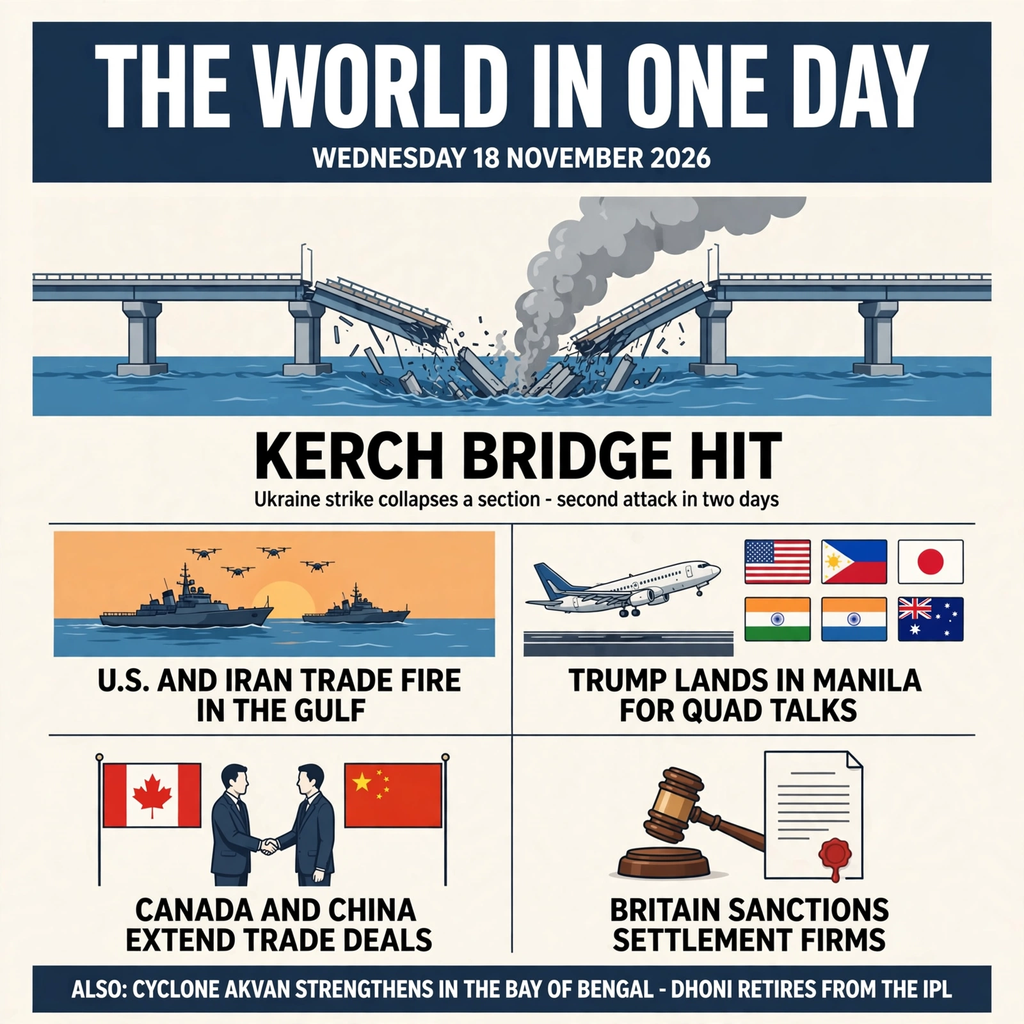
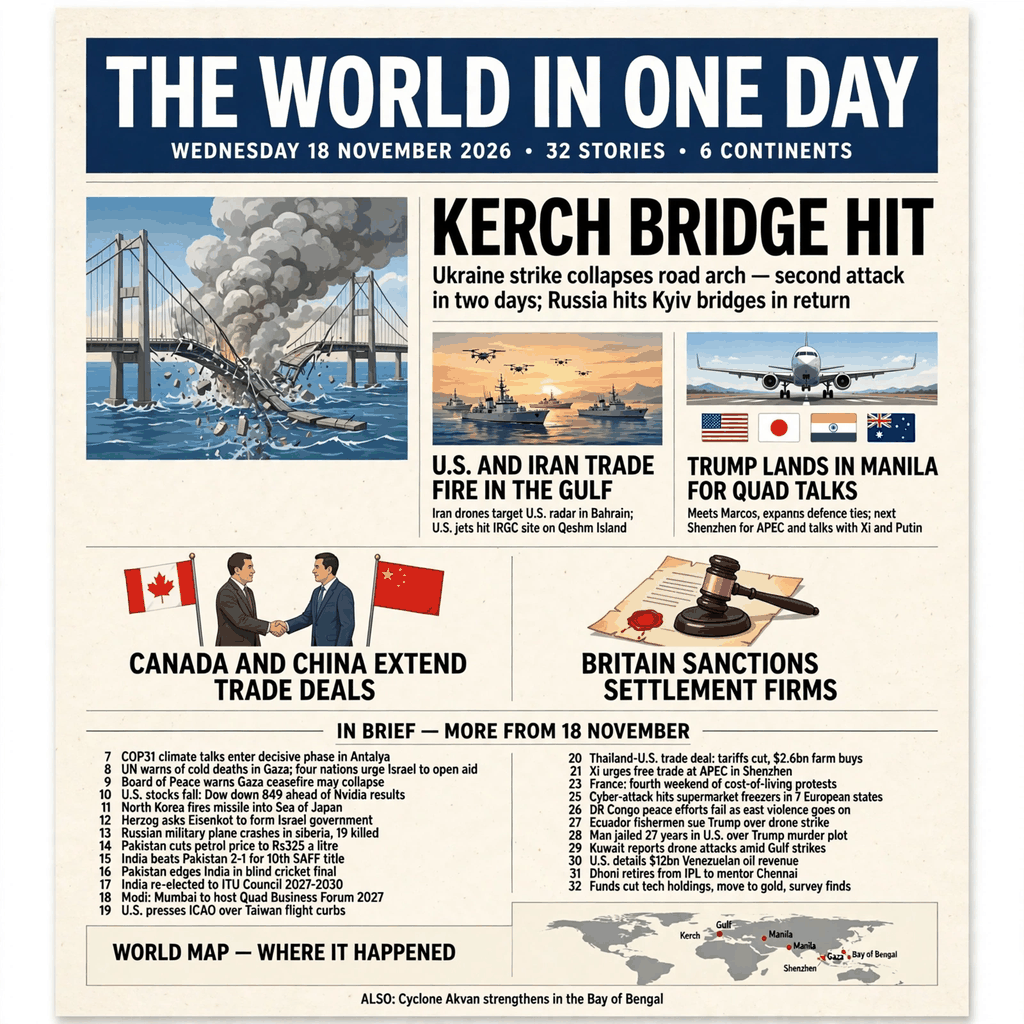
v2: dense 30-story front page + world map
- 30 real 18 Nov 2026 stories (6 illustrated leads + 24 numbered briefs),
  6 continents, plus small world-map panel; keeps all 7 verified v1 leads
- Fixes v1 Quad flag defect: US, Japan, India, Australia each shown once
- Shrinks entry.png 806951 -> 466733 bytes (1024x1024 palette PNG),
  still crisp and legible; main.py verified byte-identical over 2 runs

diff --git a/main.py b/main.py
@@ -1,9 +1,11 @@
-"""news-image-20261118 entry (Python 3.13, standard library only).
+"""news-image-20261118 entry v2 (Python 3.13, standard library only).
 
-The entry is the image this repository holds: entry.png, a front page
-summing up the world news of Wednesday 18 November 2026. The program
-copies that image to the output directory as entry.png, byte for byte,
-so both runs of the program write identical output.
+The entry is the image this repository holds: entry.png, a dense front
+page summing up the world news of Wednesday 18 November 2026 — 30 stories
+in the image (6 illustrated leads plus 24 numbered briefs) across 6
+continents, with a small world-map panel. The program copies that image
+to the output directory as entry.png, byte for byte, so both runs of the
+program write identical output.
 
 Run locally:
     mkdir -p out && MAKEFUN_OUTPUT_DIR=out python3 main.py
@@ -20,4 +22,6 @@ OUTPUT_DIR.mkdir(parents=True, exist_ok=True)
 shutil.copyfile(HERE / "entry.png", OUTPUT_DIR / "entry.png")
 
 # The copy must be exact: the judge sees exactly these bytes.
+# No timestamps, no randomness, no network: the same input file always
+# produces the same output bytes, so both graded runs agree.
 assert (OUTPUT_DIR / "entry.png").stat().st_size == (HERE / "entry.png").stat().st_size

diff --git a/README.md b/README.md
@@ -4,17 +4,22 @@
 [![rank](https://make.fun/badge/news-image-20261118/myfufufafa/news-image-20261118-entry/rank.svg)](https://make.fun/bounty/news-image-20261118/leaderboard?utm_source=github&utm_medium=readme&utm_campaign=news-image-20261118)
 [![reward](https://make.fun/badge/news-image-20261118/myfufufafa/news-image-20261118-entry/reward.svg)](https://make.fun/bounty/news-image-20261118?utm_source=github&utm_medium=readme&utm_campaign=news-image-20261118)
 
-One image summing up the world news of Wednesday 18 November 2026: a front
-page led by Ukraine's strike collapsing a section of the Kerch Bridge, with
-the US–Iran exchange of fire in the Gulf, Trump landing in Manila for Quad
-talks ahead of his China trip, Canada and China extending trade deals,
-Britain sanctioning Israeli settlement firms, Cyclone Akvan strengthening in
-the Bay of Bengal, and MS Dhoni retiring from the IPL.
+One image summing up the world news of Wednesday 18 November 2026: a dense
+front page — "THE WORLD IN ONE DAY" — with 30 stories from 6 continents and
+a small world-map panel marking where each lead story happened.
 
-The image (`entry.png`, 1024×1024) was generated with an AI image tool from
-news reported on the day, and checked against several outlets (CNN, AP,
-BBC, and Indian press summaries of the day's wires). `main.py` (Python 3.13,
-standard library only) copies it to the output directory as `entry.png`.
+The image (`entry.png`, 1024×1024, 466,733 bytes) was generated with an AI
+image tool from news reported on the day, and checked against several outlets
+(Reuters, AP, BBC, CNN, and Indian press summaries of the day's wires).
+`main.py` (Python 3.13, standard library only) copies it to the output
+directory as `entry.png`.
+
+v2 changes vs v1 (96.4993%, 11–1, rank 1244/2237): the front page now carries
+30 stories instead of ~7, adds the world-map panel, fixes the Quad flag panel
+(United States, Japan, India and Australia — each shown once; v1 showed India
+twice), and cuts the file from 806,951 bytes to 466,733 bytes. The image
+generator dropped two brief numbers (22 and 24) from the printed list, so the
+page shows 30 stories while its masthead counts 32.
 
 ## Run it
 
@@ -24,21 +29,40 @@ mkdir -p out && MAKEFUN_OUTPUT_DIR=out python3 main.py
 
 ## Stories in the image
 
-- **Kerch Bridge hit** — a Ukrainian strike collapsed a section of the
-  bridge to occupied Crimea, the second attack in two days; Russia hit
-  bridges in Kyiv in return (CNN, DW).
+Leads (illustrated):
+
+- **Kerch Bridge hit** — a Ukrainian strike collapsed the bridge's road arch,
+  the second attack in two days; Russia hit bridges in Kyiv in return
+  (Reuters, CNN, DW).
 - **US and Iran trade fire in the Gulf** — Iran sent drones at a US radar
   system in Bahrain (intercepted, no casualties); US jets then struck an
   IRGC missile site on Qeshm Island in the Strait of Hormuz (AP, CBS).
-- **Trump lands in Manila for Quad talks** — first stop of a three-day Asia
-  trip: Quad summit, ASEAN gala, talks with President Marcos, then Shenzhen
-  for APEC and trilateral nuclear talks with Xi and Putin (AP, BBC).
+- **Trump lands in Manila for Quad talks** — Quad summit, talks with President
+  Marcos, defence ties expanded, then Shenzhen for APEC and trilateral talks
+  with Xi and Putin (AP, BBC, Reuters).
 - **Canada and China extend trade deals** — Xi met PM Carney ahead of the
   APEC summit.
 - **Britain sanctions settlement firms** — UK sanctions on firms over
   Israeli West Bank settlements (BBC).
-- **Also:** Cyclone Akvan strengthening in the Bay of Bengal (IMD); MS Dhoni
-  retires from the IPL to become Chennai Super Kings mentor.
+- **Cyclone Akvan** strengthening in the Bay of Bengal (IMD).
+
+In brief (numbered in the image): COP31 climate talks enter their decisive
+phase in Antalya; UN warns of cold deaths in Gaza and four nations urge Israel
+to open aid; Board of Peace warns the Gaza ceasefire may collapse; US stocks
+fall, Dow down 849 ahead of Nvidia results; North Korea fires a missile into
+the Sea of Japan; Herzog asks Eisenkot to form Israel's government; a Russian
+military plane crashes in Siberia, 19 killed; Pakistan cuts petrol to Rs325 a
+litre; India beats Pakistan 2–1 for a 10th SAFF title; Pakistan edges India in
+the blind cricket final; India re-elected to the ITU Council 2027–2030; Modi:
+Mumbai to host the Quad Business Forum 2027; US presses ICAO over Taiwan
+flight curbs; Thailand–US trade deal, tariffs cut with $2.6bn farm buys; Xi
+urges free trade at APEC in Shenzhen; France's fourth weekend of cost-of-living
+protests; cyber-attack hits supermarket freezers in 7 European states; DR
+Congo peace efforts fail as eastern violence goes on; Ecuador fishermen sue
+Trump over a drone strike; man jailed 27 years in the US over a Trump murder
+plot; Kuwait reports drone attacks amid Gulf strikes; US details $12bn
+Venezuelan oil revenue; Dhoni retires from the IPL to mentor Chennai; funds
+cut tech holdings and move to gold, a survey finds.
 
 ---
 
